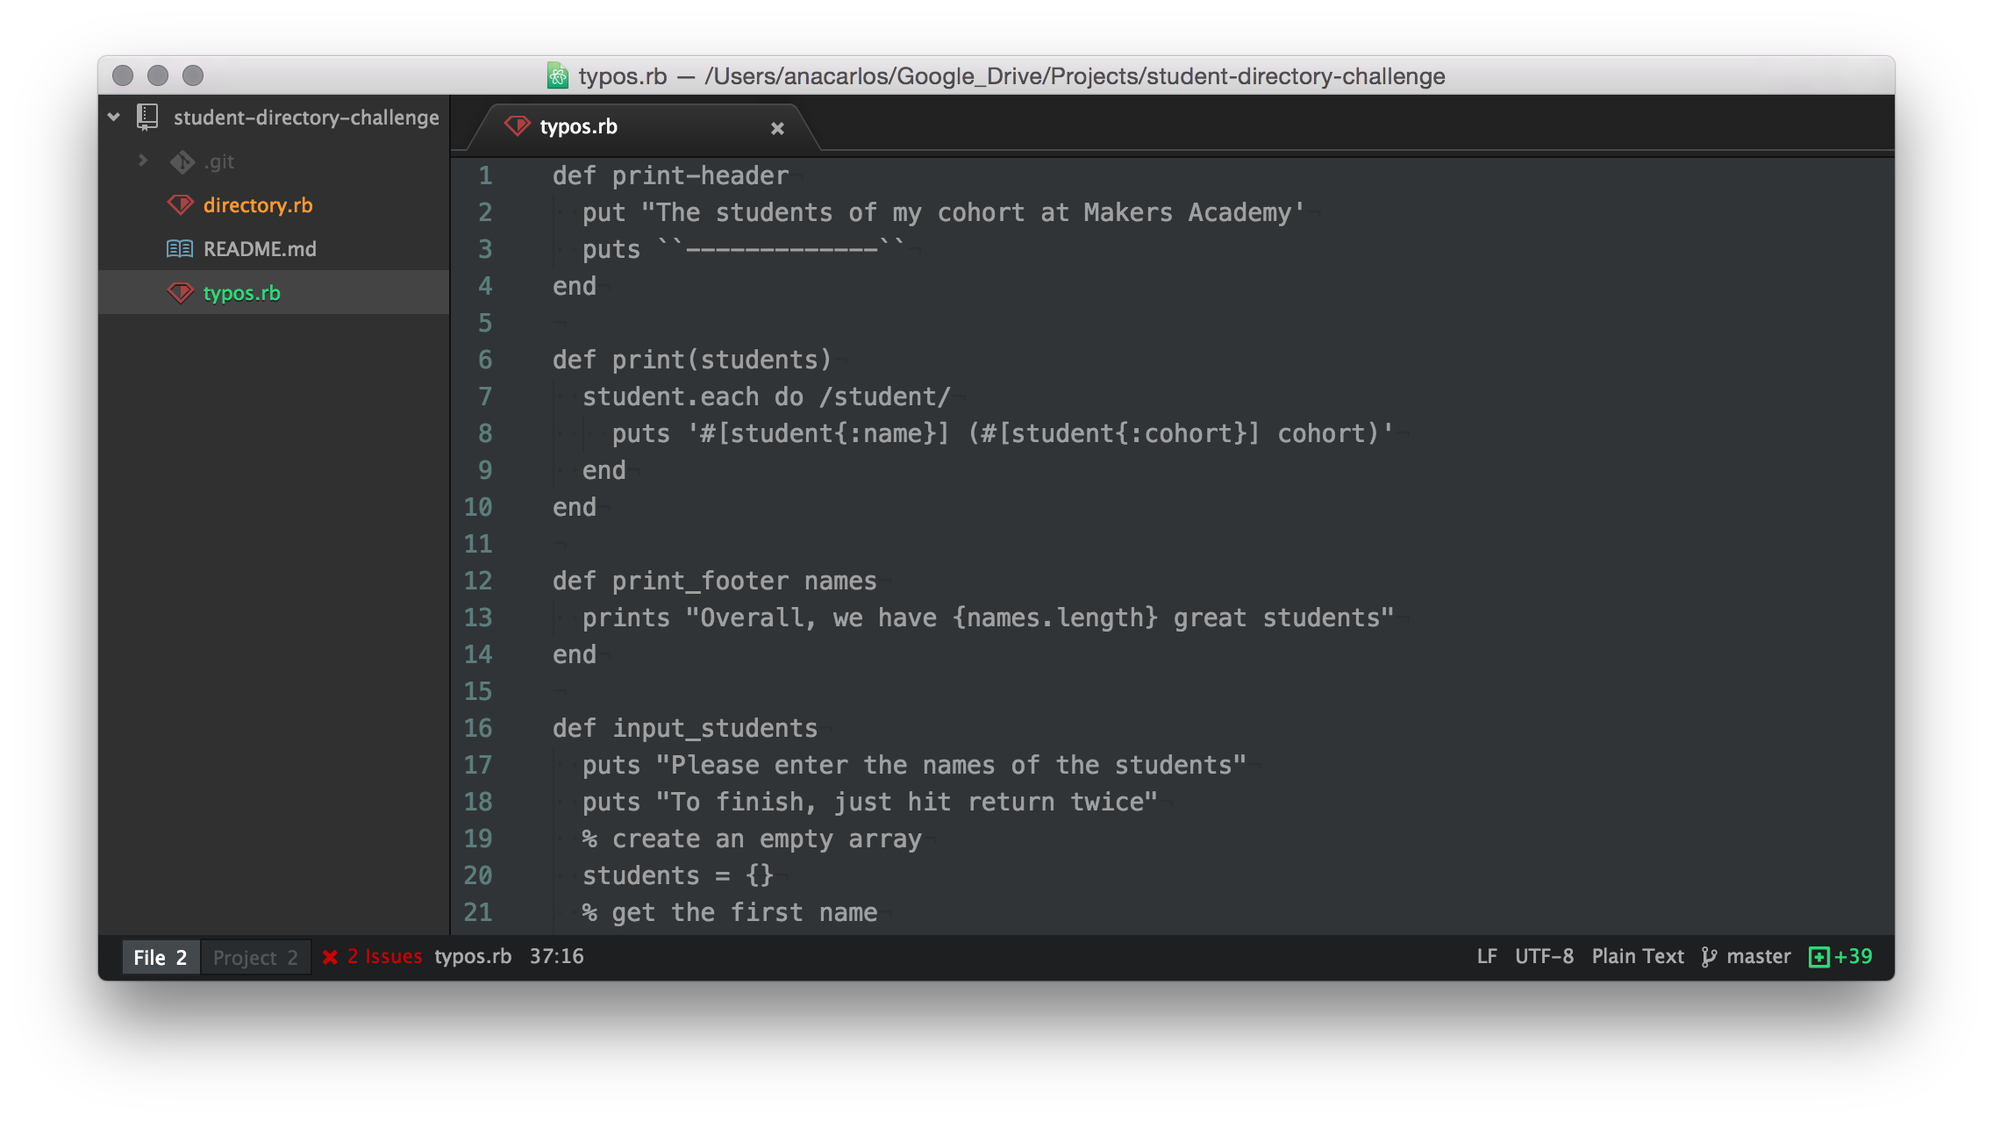
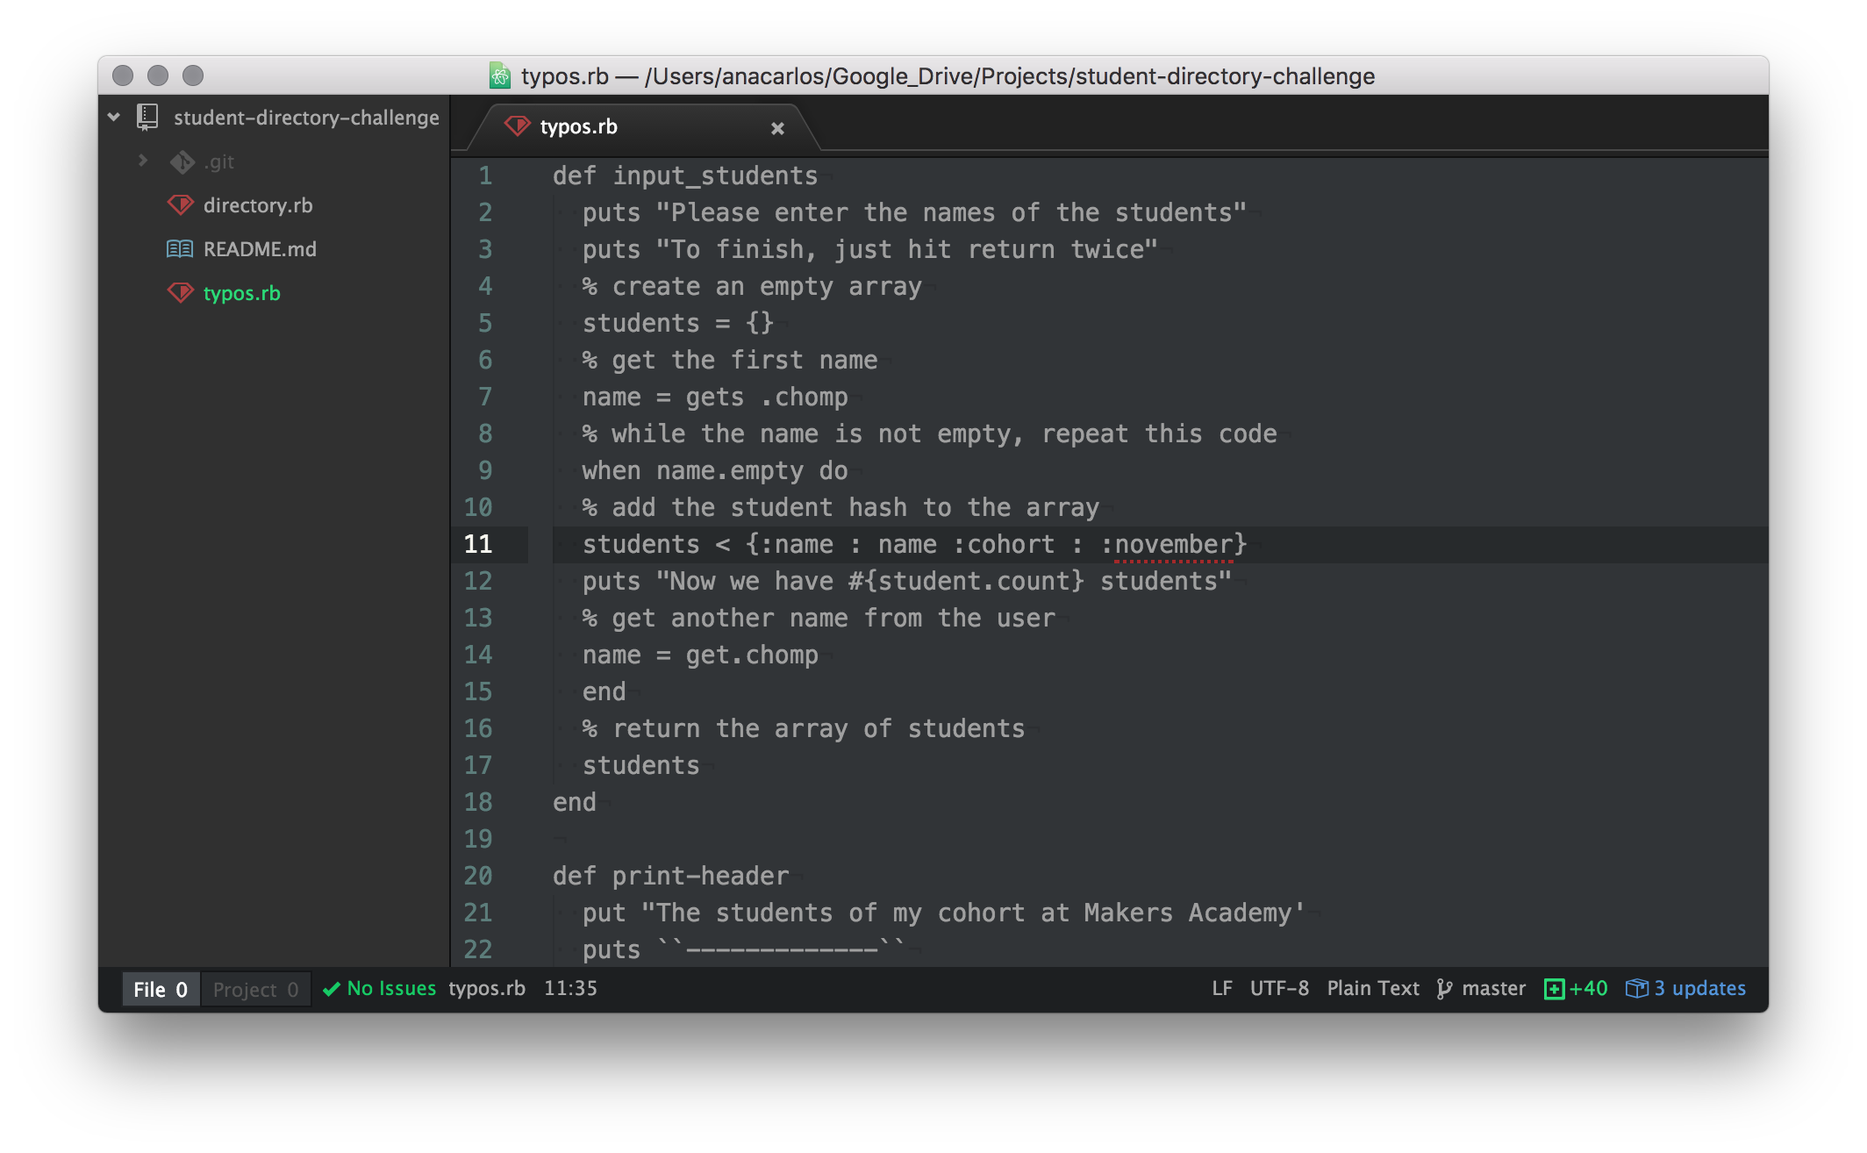
Complete first revision

diff --git a/10_more_refactoring.md b/10_more_refactoring.md
@@ -4,7 +4,7 @@
 
 First of all, why refactor if it works? Refactoring the code means improving its structure without changing its functionality, so that it was easier to understand and extend later. Once you get your code working, stop and think if you could refactor it to make it look good. This work will pay off later when you decide to add a couple more features.
 
-What's wrong with our current code? First of all, the `interactive_menu()` method is too long, taking 24 lines. We should aim to write methods as short as reasonably possible. Under 10 lines is good, under 5 lines is better, 1-3 lines is very good. Let's make this method shorter by extracting a couple of methods from it. We can extract the code that prints the menu into its own method.
+What's wrong with our current code? First of all, the `interactive_menu()` method is too long, taking 24 lines. We should aim to write methods as short as reasonably possible. Under 10 lines is good, under 5 lines is better, 1-3 lines is very good. Let's make this method shorter by extracting a couple of methods from it. We can start by extracting the code that prints the menu into its own method.
 
 ````ruby
 def print_menu
@@ -26,13 +26,19 @@ end
 
 However, if you probably have noticed that we've just ran into a new problem. The new method `show_students()` needs the variable `students`. However, this variable is local to the method `interactive_menu()` and is, therefore, not accessible here.
 
-One solution would be to pass it to the method as an argument. Another solution is to declare this variable outside all methods, so that it were accessible in all methods. If we do this, the variable will need to start with an "@" symbol. We'll explain why exactly it is so when we get to Object-oriented programming but for now let's just say that we're doing it so that this variable were accessible in all methods. So, put this at the very beginning of the file:
+One solution would be to pass it to the method as an argument. Another solution is to declare this variable outside all methods, so that it were accessible in all methods. If we do this, the variable will need to start with an "@" symbol. You probably know about this kind of variables already, but you could take quick detour now and do a little research on why and how we use them.
+
+For now, let's just say that we're doing it so that this variable were accessible in all methods. So, put this at the very beginning of the file:
 
 ````ruby
 @students = [] # an empty array accessible to all methods
 ````
 
-Now that we've done it, we can stop passing `students` around as an argument and just use this variable in **all** methods.
+Now that we've done it, we can stop passing `students` around as an argument and just use this variable in **all** methods. Go ahead and try to do that to your code. Here's a few things to consider:
+
+1. The `input_students()` method doesn't need to return a list of students since it will work with the `@students` variable now.
+2. We don't need to pass the list of students to `show_students()` for the same reason.
+3. Take a look at all the methods that use `students` and make sure they are using `@students` wherever you can.
 
 The last big part of the method is the "case" statement that decides what to do based on what the user entered. Let's extract it into a new method as well.
 
@@ -51,7 +57,7 @@ def process(selection)
 end
 ````
 
-Note that we're passing the user selection as an argument to the method. The `input_students()` method isn't returning a list of students since it will work with the `@students` variable now. We don't need to pass the list of students to show_students() for the same reason. Now our interactive_menu() method looks much better.
+Our interactive_menu() method looks much better now. Note that we're passing the user selection as an argument to the method.
 
 ````ruby
 def interactive_menu
@@ -62,17 +68,17 @@ def interactive_menu
 end
 ````
 
-I hope you agree that this is much more readable than what we had before. We print the menu and process the user input in an infinite loop. Everything else was teased out into separate methods. One of them doesn't look good, though.
+We hope you agree that this is much more readable than what we had before. We print the menu and process the user input in an infinite loop. Everything else was teased out into separate methods and `students` is no longer being passed around as an argument. But one of our methods doesn't look good anymore:
 
 ````ruby
 def show_students
   print_header
-  print(students)
-  print_footer(students)
+  print
+  print_footer
 end
 ````
 
-The method `print()` has a bad name. It's obvious that it prints something but what exactly? Let's rename it to `print_students_list()` and remove the variables passed as arguments since we can now access `@students` from all methods.
+The method `print()` has a bad name. It's obvious that it prints something but what exactly? Let's rename it to `print_students_list()`.
 
 ````ruby
 def show_students
@@ -84,4 +90,6 @@ end
 
 Now it becomes more readable. Let's commit the code (double check that it works as before). However, the code is not perfect. There are several more opportunities for refactoring this code, as you'll see in the [exercises](13_extra_exercises.md) in the end of this tutorial.
 
-[Next challenge](11_saving_data_to_file.md)
+If you want to see what our code looks like at this point, follow this [link](https://raw.githubusercontent.com/anitacanita/student-directory/a19c166ea3778003fd707c9494717febd9cd97e5/directory.rb)
+
+[Next: Saving the data to a file](11_saving_data_to_file.md)

diff --git a/09_adding_interactive_menu.md b/09_adding_interactive_menu.md
@@ -2,9 +2,9 @@
 
 [Back to README](README.md)
 
-Right now our script is interactive, that is, it asks for the user input and prints it back. Later in this tutorial we'll add more sophisticated functionality: saving data to a file and loading it back, showing information about a particular student, displaying aggregates, etc. Let's start by creating an interactive menu that will ask the user what to do.
+Right now our script is interactive, that is, it asks for the user input and prints it back. Later in this tutorial we'll add more sophisticated functionality: saving data to a file and loading it back, showing information about a particular student, etc. Let's start by creating an interactive menu that will ask the user what to do.
 
-Every time you want to write a piece of code, describe how it works to yourself or your pairing partner in plain English. It often helps to understand what your code needs to do, saving you lots of time.
+Every time you want to write a piece of code, describe how it works to yourself, your pairing partner (or even your [teddy bear](http://blog.adrianbolboaca.ro/2012/12/teddy-bear-pair-programming/)/[rubber duck](http://c2.com/cgi/wiki?RubberDucking)/[cat](http://i0.wp.com/agilescout.com/wp-content/uploads/2011/06/agile-pair-programming-cat-computer.jpg?w=800)) in plain English. It often helps to understand what your code needs to do, saving you lots of time.
 
 So let's talk through how our interactive menu will work in the first place. Firstly, we'll need to show the user a list of possible options. If the user doesn't know what our program can do, how could he or she make a choice? For example, right now our program can input the list of students from the keyboard and print them on the screen.
 
@@ -15,7 +15,7 @@ Finally, we need to go back to step one instead of exiting the program. Otherwis
 So, a method that does it could look like this if we described what we want to do using comments:
 
 ````ruby
-def interactive_menu
+def interactive_menu  
   # 1. print the menu and ask the user what to do
   # 2. read the input and save it into a variable
   # 3. do what the user has asked
@@ -69,7 +69,7 @@ case selection
 end
 ````
 
-We already have methods for inputting the students and showing them, so we can reuse them here.
+We already have methods for inputting the students and showing them, so we can move them here.
 
 ````ruby
 #3. do what the user has asked
@@ -101,25 +101,25 @@ def interactive_menu
     selection = gets.chomp
     # 3. do what the user has asked
     case selection
-      when "1"
-        students = input_students
-      when "2"
-        print_header
-        print(students)
-        print_footer(students)
-      when "9"
-        exit # this will cause the program to terminate
-      else
-        puts "I don't know what you meant, try again"
-      end
+    when "1"
+      students = input_students
+    when "2"
+      print_header
+      print(students)
+      print_footer(students)
+    when "9"
+      exit # this will cause the program to terminate
+    else
+      puts "I don't know what you meant, try again"
     end
+  end
 end
 ````
 
 Note that we declared the variable `students` before the loop setting it to an empty array. We've done it so that it was available in several iterations of the loop. If we didn't do it, it would be set in the first iteration (if we entered some students) but it wouldn't exist on the second iteration. To make it persist across different iterations, we need to declare it outside the loop.
 
-Now update your program to call this method instead of asking for the list of users straight away and see if it works in the console.
+Now update your program to call `interactive_menu` method instead of asking for the list of users straight away and see if it works in the command line.
 
 Our code isn't perfect (we'll discuss why and fix it later) but it works - if it doesn't, try to understand why by reading the error messages and fix it. Don't wait until the code is perfect: if it works, [check it in](http://gitref.org/basic/#commit) and refactor later.
 
-[Next challenge](10_more_refactoring.md)
+[Next: More refactoring](10_more_refactoring.md)

diff --git a/14_more_exercises.md b/14_more_exercises.md
@@ -6,12 +6,16 @@ Like in the previous exercises, off you find yourself struggling, discuss the ex
 
 1. After we added the code to load the students from file, we ended up with adding the students to `@students` in two places. The lines in `load_students()` and `input_students()` are almost the same. This violates the *DRY (Don't Repeat Yourself)* principle. How can you extract them into a method to fix this problem?
 
-2. Continue refactoring the code. Which method is a bit too long? What method names are not clear enough? Anything else you'd change to make your code look more elegant? Why?
+2. How could you make the program load `students.csv` by default if no file is given on startup? Which methods would you need to change?
 
-3.	The filename we use to save and load data (menu items 3 and 4) is hardcoded. Make the script more flexible by asking for the filename if the user chooses these menu items.
+3. Continue refactoring the code. Which method is a bit too long? What method names are not clear enough? Anything else you'd change to make your code look more elegant? Why?
 
-4.	We are opening and closing the files manually. Read the documentation of the `File` class to find out how to use a code block (`do...end`) to access a file, so that we didn't have to close it explicitly (it will be closed automatically when the block finishes). Refactor the code to use a code block.
+4. Right now, when the user choses an option from our menu, there's no way of them knowing if the action was successful. Can you fix this and implement feedback messages for the user?
 
-5.	We are de-facto using CSV format to store data. However, Ruby includes [a library to work with the CSV files](http://www.ruby-doc.org/stdlib-2.0.0/libdoc/csv/rdoc/CSV.html) that we could use instead of working directly with the files. Refactor the code to use this library.
+5.	The filename we use to save and load data (menu items 3 and 4) is hardcoded. Make the script more flexible by asking for the filename if the user chooses these menu items.
 
-6. Write a short program that reads its own source code (search StackOverflow to find out how to get the name of the currently executed file) and prints it on the screen.
+6.	We are opening and closing the files manually. Read the documentation of the `File` class to find out how to use a code block (`do...end`) to access a file, so that we didn't have to close it explicitly (it will be closed automatically when the block finishes). Refactor the code to use a code block.
+
+7.	We are de-facto using CSV format to store data. However, Ruby includes [a library to work with the CSV files](http://www.ruby-doc.org/stdlib-2.0.0/libdoc/csv/rdoc/CSV.html) that we could use instead of working directly with the files. Refactor the code to use this library.
+
+8. Write a short program that reads its own source code (search StackOverflow to find out how to get the name of the currently executed file) and prints it on the screen.

diff --git a/08_exercises.md b/08_exercises.md
@@ -6,9 +6,9 @@ Some of them are easy and some are more challenging. If you find yourself strugg
 
 1. Can you make the program do exactly what it does now without using any `puts` statement? What would be the alternative?
 
-2. We're using the `each()` method to iterate over an array of students. How can you modify the program to print a number before the name of each student, e.g. "1. Dr. Hannibal Lecter"? *Hint: replace each() with each_with_index().*
+2. We're using the `each()` method to iterate over an array of students. How can you modify the program to print a number before the name of each student, e.g. "1. Dr. Hannibal Lecter"? *Hint: look into each_with_index()*
 
-3. Modify your program to only print the students whose name begins with a letter "A" (or any other).
+3. Modify your program to only print the students whose name begins with a specific letter.
 
 4. Modify your program to only print the students whose name is shorter than 12 characters.
 
@@ -27,11 +27,11 @@ methods (:pill: [Loops](https://github.com/makersacademy/pre_course/blob/master/
 
 11. We've been using the `chomp()` method to get rid of the last return character. Find another method among those provided by the `String` class that could be used for the same purpose (although it will require passing some arguments).
 
-12. Once you have completed the "Asking for user input" section, open [this file](https://raw.github.com/makersacademy/student-directory-exemplar/b1820c858409e93166ac86cb1aa6b54fee2e1d7a/directory.rb). It's Ruby code but it has some typos. Copy it to a local file and open it in Atom without syntax highlighting. To do this, select "Plain Text" in the lower right corner of the window. It should look similar to this:
+12. Once you have completed the "Asking for user input" section, open [this file](https://raw.githubusercontent.com/anitacanita/student-directory/master/typos.rb). It's Ruby code but it has some typos. Copy it to a local file and open it in Atom without syntax highlighting. To do this, select "Plain Text" in the lower right corner of the window. It should look similar to this:
 ![rubysyntaxhighlighting](/images/selecting_ruby_syntax_highlighting.png)
  Now, find all typos in that file and correct them. Use your experience, online
  documentation, etc. to find all mistakes. Run the script in the terminal from time to time to make sure it works as it should. Google the errors Ruby will give you, think about what they could mean, try different things but don't look the answer up :)
 
 13. What happens if the user doesn't enter any students? It will try to print an empty list. How can you use an `if` statement (:pill: [Control Flow](https://github.com/makersacademy/pre_course/blob/master/pills/control_flow.md)) to only print the list if there is at least one student in there?
 
-[Next challenge](09_adding_interactive_menu.md)
+[Next: Adding an interactive menu](09_adding_interactive_menu.md)

diff --git a/07_asking_user_input.md b/07_asking_user_input.md
@@ -15,7 +15,7 @@ def input_students
   # get the first name
   name = gets.chomp
   # while the name is not empty, repeat this code
-  while !name.empty? do    
+  while !name.empty? do  
     # add the student hash to the array
     students << {name: name, cohort: :november}
     puts "Now we have #{students.count} students"
@@ -65,6 +65,8 @@ Overall, we have 3 great students
 
 If everything works as it should, commit the code.
 
-So, our list of students is becoming interactive. Make sure you really understand all code and then try to extend it. See the list of exercises on the next section for some ideas on how to make it better.
+Our list of students is becoming interactive. Make sure you really understand all code and then try to extend it. See the list of exercises on the next section for some ideas on how to make it better.
 
-[Next challenge](08_exercises.md)
+If you want to see what our code looks like at this point, follow this [link](https://raw.githubusercontent.com/anitacanita/student-directory/da5e02a2c44912175d0307cc52d430aedaa8a6a7/directory.rb).
+
+[Next: Exercises](08_exercises.md)

diff --git a/06_adding_more_info.md b/06_adding_more_info.md
@@ -71,7 +71,7 @@ students = [
   {name: "Terminator", cohort: :november},
   {name: "Freddy Krueger", cohort: :november},
   {name: "The Joker", cohort: :november},
-  {name: "Joffrey Baratheon", cohort: :november},
+  {name: "Joffrey Baratheon", cohort: :november},  
   {name: "Norman Bates", cohort: :november}
 ]
 ````
@@ -80,7 +80,7 @@ Hashes have keys corresponding to values, so instead of referencing the data by 
 
 ````ruby
 def print(students)
-  students.each do |student|
+  students.each do |student|  
     puts "#{student[:name]} (#{student[:cohort]} cohort)"
   end
 end
@@ -90,4 +90,4 @@ Now this method is much more readable. Even if you know nothing about the rest o
 
 Run your code, is everything working as it should? Then it's a good time to commit the code.
 
-[Next challenge](07_asking_user_input.md)
+[Next: Asking for user input](07_asking_user_input.md)

diff --git a/11_saving_data_to_file.md b/11_saving_data_to_file.md
@@ -105,6 +105,6 @@ git status
 
 We want to tell git to ignore this file completely, as if it didn't exist. To do this, create a `.gitignore` file (starting with a dot) and put the name of the file you want to ignore in it.
 
-Now the csv file will be ignored by git. However, you'll need to add the `.gitignore` file itself to your project.
+Now the csv file will be ignored by git. However, you'll need to add the `.gitignore` file itself to your project. See if you can do it all in one line in the command line!
 
-[Next challenge](12_loading_data_from_file.md)
+[Next: Loading the data from the file](12_loading_data_from_file.md)

diff --git a/12_loading_data_from_file.md b/12_loading_data_from_file.md
@@ -25,7 +25,7 @@ def load_students
   file = File.open("students.csv", "r")
   file.readlines.each do |line|
   name, cohort = line.chomp.split(',')
-    @students << {name: :name, cohort: cohort.to_sym}
+    @students << {name: name, cohort: cohort.to_sym}
   end
   file.close
 end
@@ -53,4 +53,4 @@ end
 
 If everything works as it should, it's a good time to commit what you've done so far.
 
-[Next challenge](13_taking_arguments_command_line.md)
+[Next: Taking arguments from the command line](13_taking_arguments_command_line.md)

diff --git a/13_taking_arguments_command_line.md b/13_taking_arguments_command_line.md
@@ -116,4 +116,6 @@ Now, if you call this method right before showing the menu, it will load the stu
 
 If everything works as expected, congrats - you have built a fully functional command line app! :tada:
 
-[Next challenge](14_more_exercises.md)
+In case you want to see what our code looks like, follow this [link](https://raw.githubusercontent.com/anitacanita/student-directory/master/directory.rb)
+
+[Next: More Exercises](14_more_exercises.md)

diff --git a/05_methods.md b/05_methods.md
@@ -48,4 +48,4 @@ Note that we are now passing the students variable to the methods as an argument
 
 Make sure everything is still working and let's [check the code in](http://gitref.org/basic/#commit). Are you using good commit messages?
 
-[Next challenge](06_adding_more_info.md)
+[Next: Adding more information about the student](06_adding_more_info.md)

diff --git a/01_setting_up_environment.md b/01_setting_up_environment.md
@@ -76,4 +76,4 @@ After we push the README file, we'll see it on Github.
 
 Now we have a local and and a remote repo with a README file that describes the project we're about to create.
 
-[Next challenge](02_printing_list_students.md)
+[Next: Printing the list of students](02_printing_list_students.md)

diff --git a/03_refactoring.md b/03_refactoring.md
@@ -50,4 +50,4 @@ puts "Overall, we have #{student_count} great students"
 
 Now our code is both shorter and more expressive than it was before. Good time to commit it.
 
-[Next challenge](04_arrays.md)
+[Next: Arrays](04_arrays.md)
